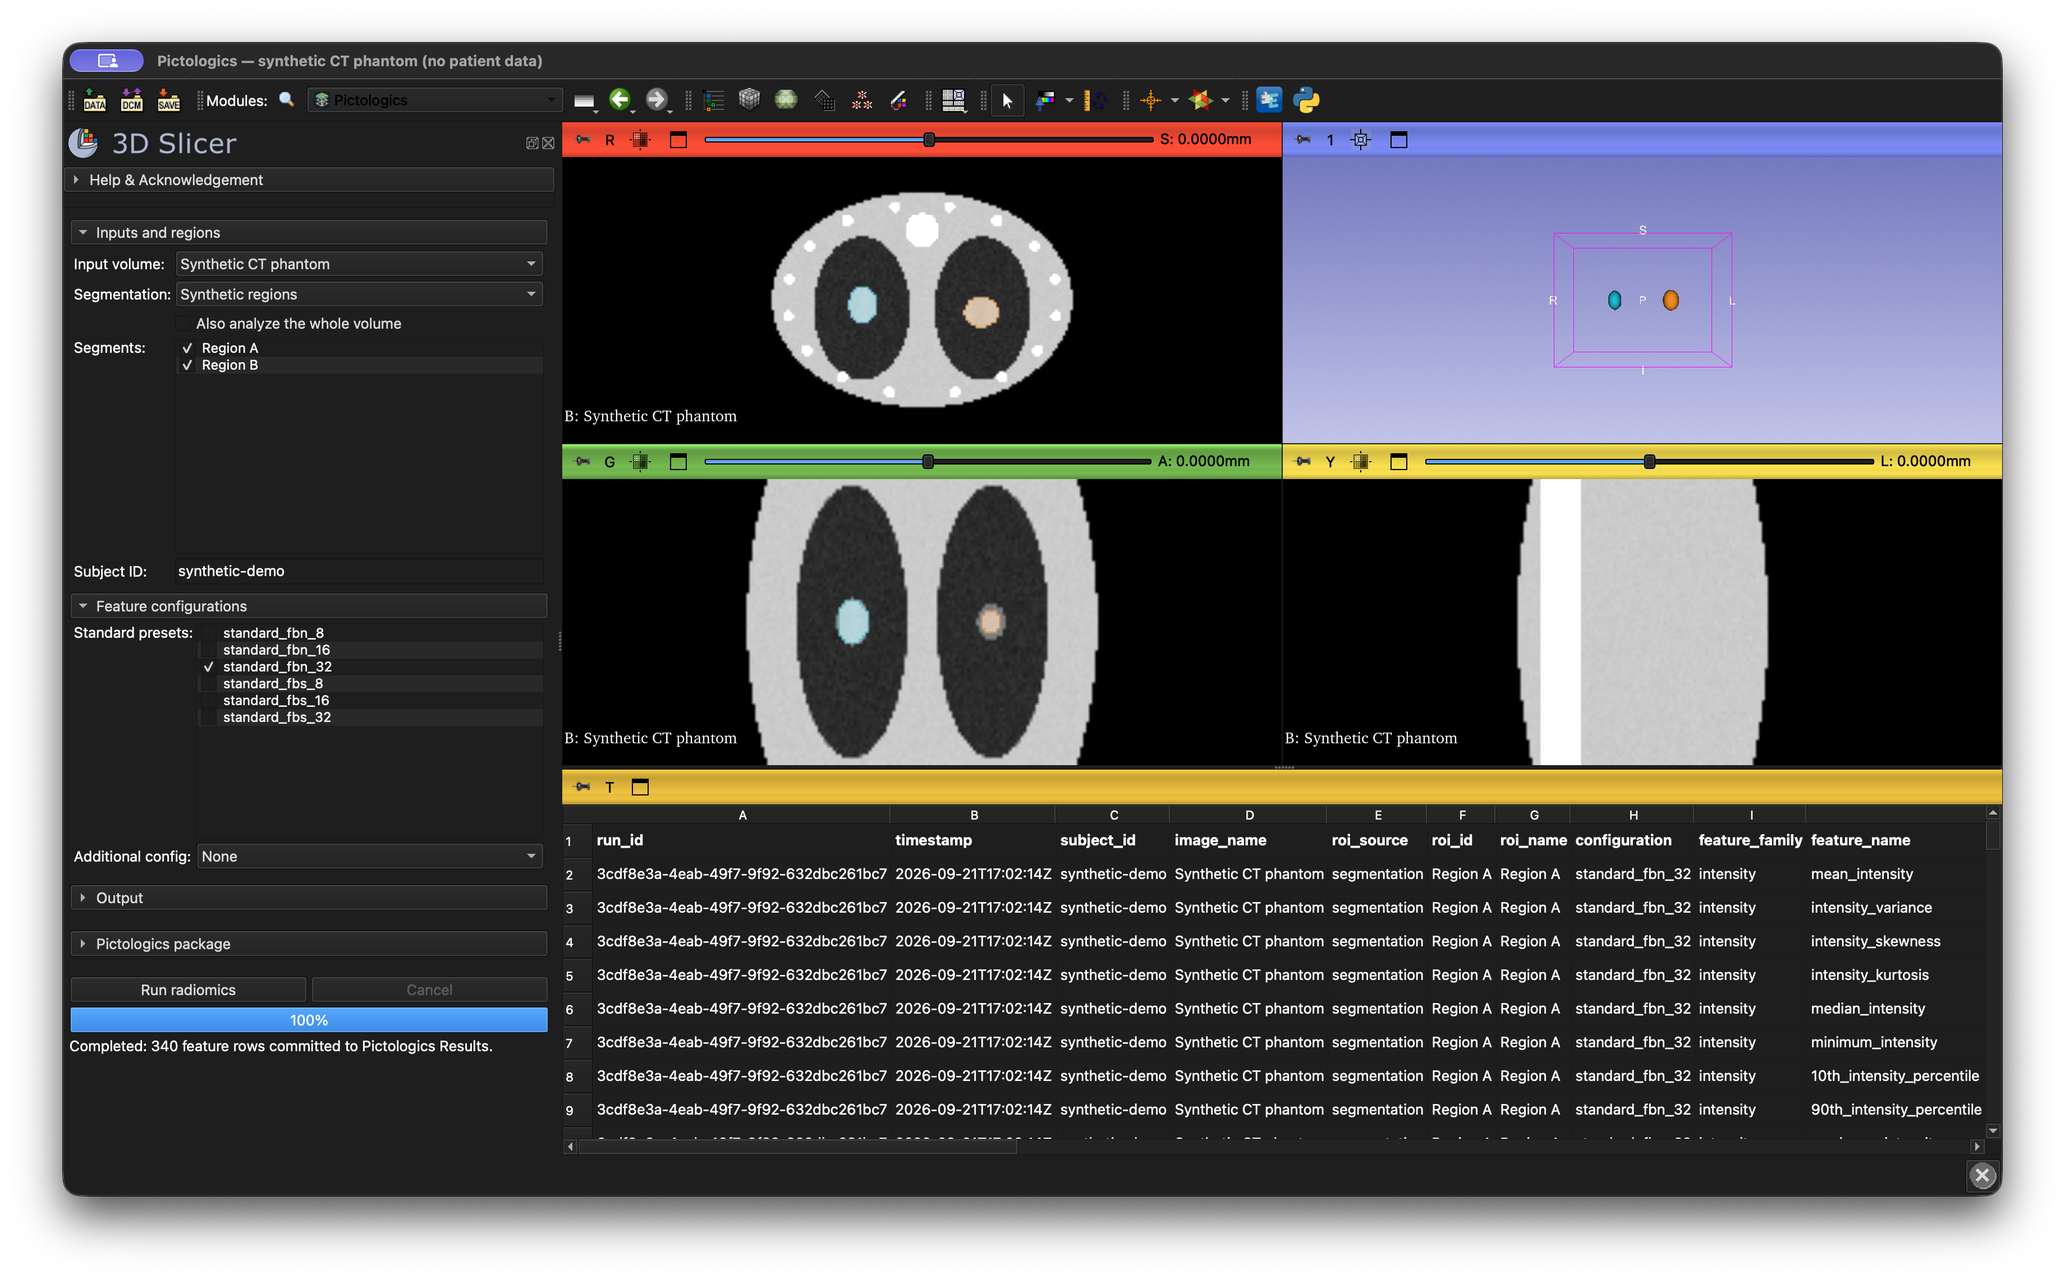
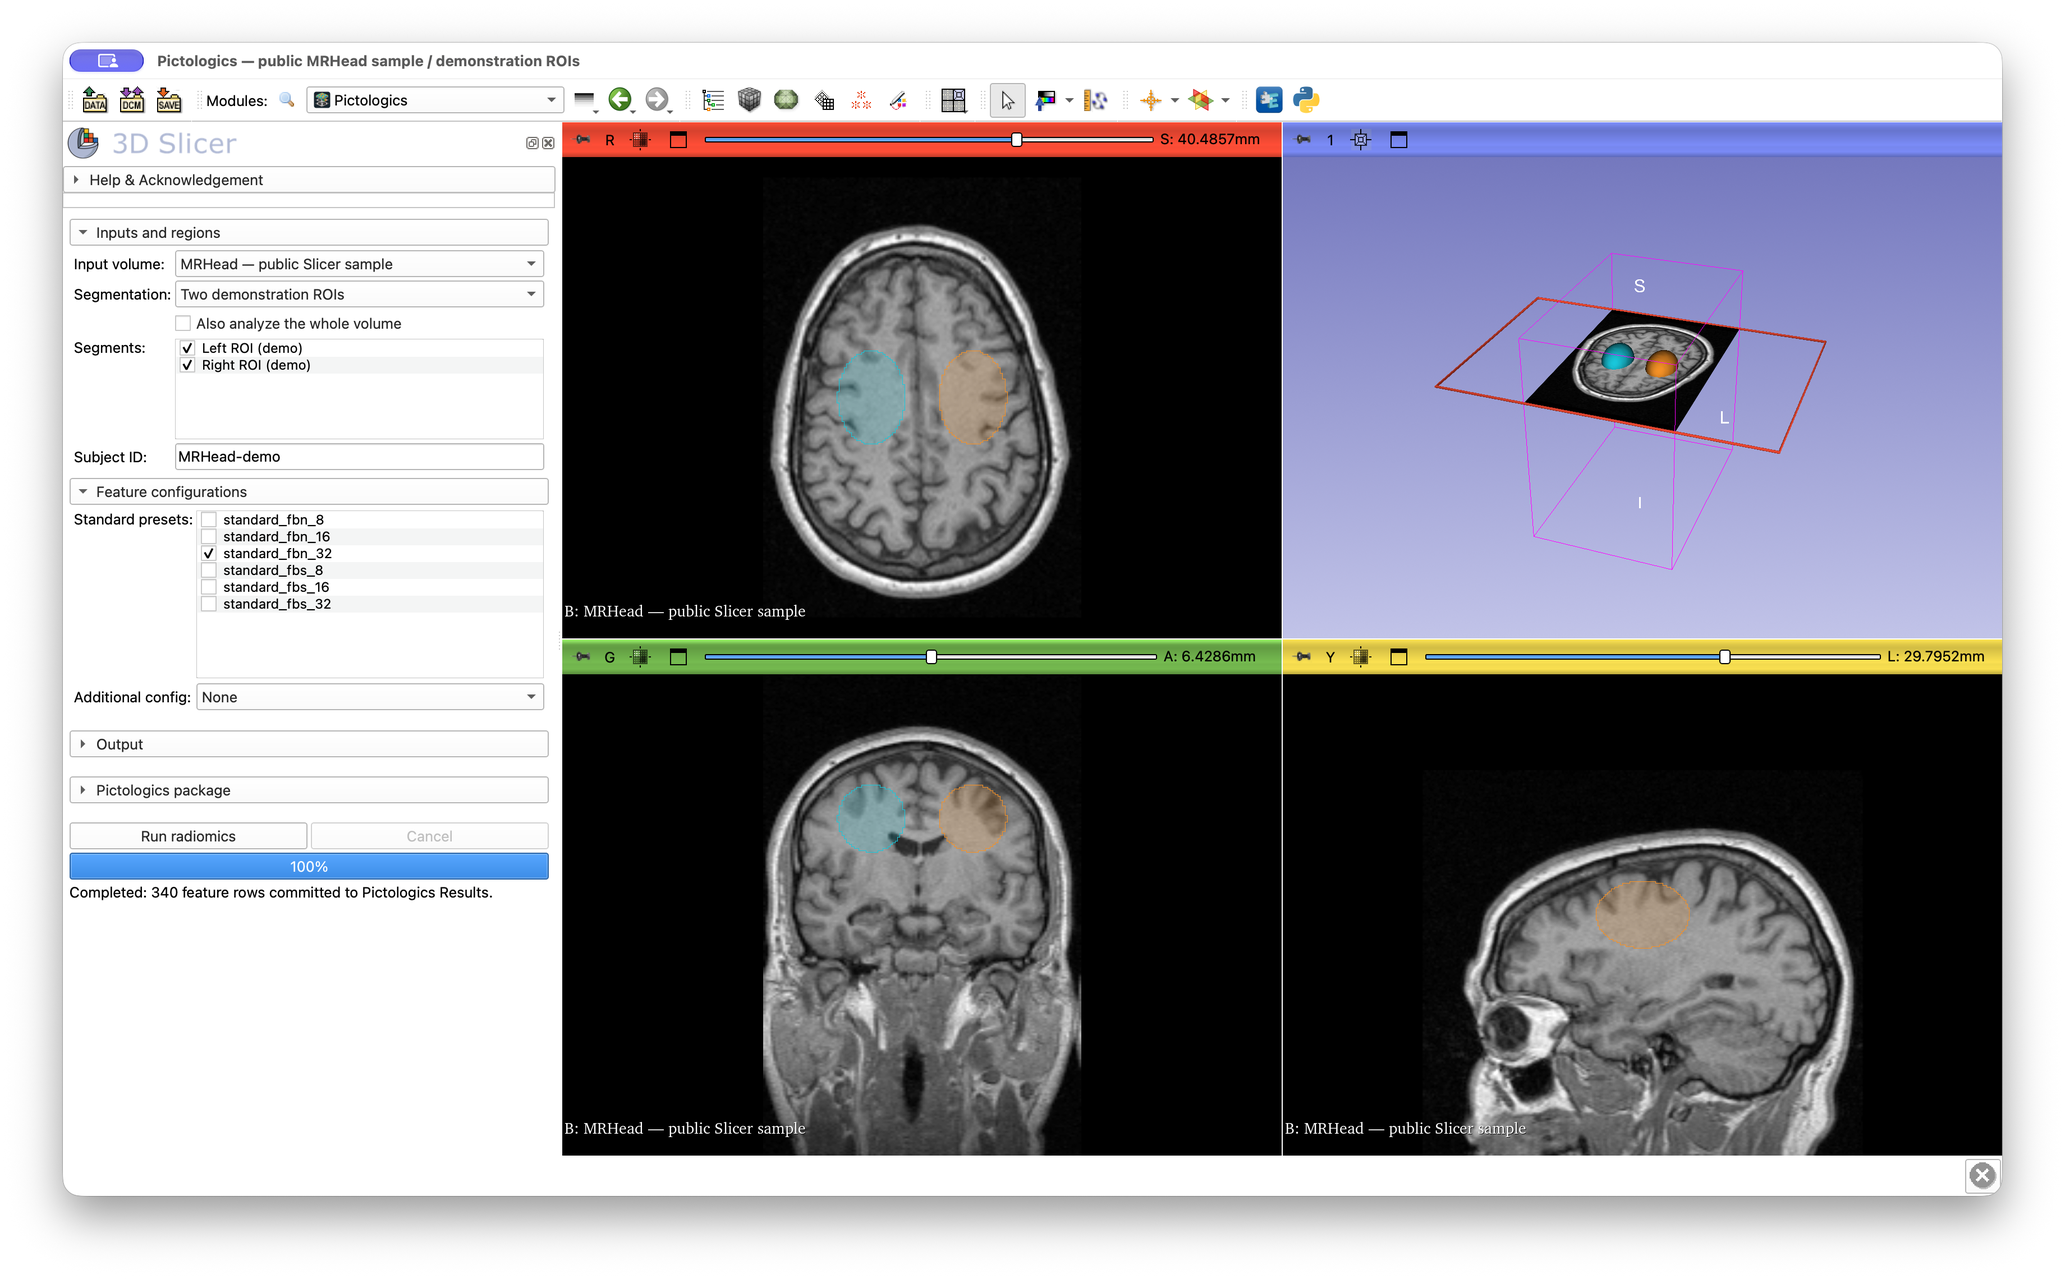
DOC: Publish approved MRHead workflow screenshot and demo

diff --git a/scripts/create_sample_data_demo.py b/scripts/create_sample_data_demo.py
@@ -1,0 +1,166 @@
+"""Prepare public Slicer MRHead data with two illustrative radiomics ROIs.
+
+Launch in a fresh, isolated Slicer process using --disable-settings and
+--ignore-slicerrc. The built-in SampleData downloader verifies the public data's
+checksum. It may download MRHead but never installs Pictologics or uploads data.
+The two ellipsoidal masks are demonstration ROIs, not clinical annotations.
+Run radiomics with the normal module button; no result values are fabricated.
+Set PICTOLOGICS_DEMO_AUTORUN=1 to invoke that same module workflow on startup.
+Keep screenshots in local-output until the maintainer approves publication.
+"""
+
+from __future__ import annotations
+
+import json
+import os
+from collections import Counter
+
+import numpy as np
+import qt
+import SampleData
+import slicer
+import vtk
+
+
+def create_demo() -> None:
+    if slicer.util.getNodesByClass("vtkMRMLVolumeNode"):
+        raise RuntimeError("Use a fresh Slicer session; existing image data will not be replaced.")
+    slicer.util.selectModule("PictologicsSlicer")
+    widget = slicer.modules.pictologicsslicer.widgetRepresentation().self()
+    inspection = widget.logic.inspectDependencies()
+    if not inspection.satisfied:
+        raise RuntimeError("Install the adopted Pictologics release before running this demo.")
+
+    volume = SampleData.downloadSample("MRHead")
+    volume.SetName("MRHead — public Slicer sample")
+    array = slicer.util.arrayFromVolume(volume)
+    bounds = [0.0] * 6
+    volume.GetRASBounds(bounds)
+    matrix = vtk.vtkMatrix4x4()
+    volume.GetIJKToRASMatrix(matrix)
+    k, j, i = (axis.astype(np.float32) for axis in np.ogrid[tuple(slice(n) for n in array.shape)])
+    x, y, z = [
+        matrix.GetElement(axis, 0) * i
+        + matrix.GetElement(axis, 1) * j
+        + matrix.GetElement(axis, 2) * k
+        + matrix.GetElement(axis, 3)
+        for axis in range(3)
+    ]
+    centre = (
+        (bounds[0] + bounds[1]) / 2,
+        (bounds[2] + bounds[3]) / 2,
+        bounds[4] + 0.70 * (bounds[5] - bounds[4]),
+    )
+    segmentation = slicer.mrmlScene.AddNewNodeByClass(
+        "vtkMRMLSegmentationNode", "Two demonstration ROIs"
+    )
+    segmentation.CreateDefaultDisplayNodes()
+    segmentation.SetReferenceImageGeometryParameterFromVolumeNode(volume)
+    regions = [
+        ("Left ROI (demo)", (0.96, 0.57, 0.15), centre[0] - 27),
+        ("Right ROI (demo)", (0.10, 0.78, 0.86), centre[0] + 27),
+    ]
+    voxel_counts = {}
+    for name, color, centre_x in regions:
+        mask = ((x - centre_x) / 18) ** 2 + ((y - centre[1]) / 25) ** 2 + (
+            (z - centre[2]) / 18
+        ) ** 2 < 1
+        voxel_counts[name] = int(mask.sum())
+        if voxel_counts[name] < 100:
+            raise RuntimeError(f"Demonstration ROI is outside the sample image: {name}")
+        segment_id = segmentation.GetSegmentation().AddEmptySegment(name, name, color)
+        slicer.util.updateSegmentBinaryLabelmapFromArray(
+            mask.astype(np.uint8), segmentation, segment_id, volume
+        )
+    segmentation.CreateClosedSurfaceRepresentation()
+    segmentation.GetDisplayNode().SetOpacity2DFill(0.18)
+    segmentation.GetDisplayNode().SetOpacity2DOutline(1.0)
+
+    widget.ui.inputVolumeSelector.setCurrentNode(volume)
+    widget.ui.segmentationSelector.setCurrentNode(segmentation)
+    widget.ui.wholeVolumeCheckBox.setChecked(False)
+    widget.ui.subjectIdLineEdit.setText("MRHead-demo")
+    widget.updateParameterNodeFromGUI()
+    widget.ui.configurationCollapsibleButton.collapsed = False
+    widget.ui.outputCollapsibleButton.collapsed = True
+    # Compact the demo's two short lists; this is only presentation, not saved settings.
+    widget.ui.segmentListWidget.setMaximumHeight(80)
+    widget.ui.standardConfigListWidget.setMaximumHeight(150)
+
+    layout = slicer.app.layoutManager()
+    layout.setLayout(slicer.vtkMRMLLayoutNode.SlicerLayoutFourUpView)
+    slicer.util.setSliceViewerLayers(background=volume)
+    slicer.util.resetSliceViews()
+    layout.sliceWidget("Red").sliceLogic().SetSliceOffset(centre[2])
+    layout.sliceWidget("Green").sliceLogic().SetSliceOffset(centre[1])
+    layout.sliceWidget("Yellow").mrmlSliceNode().JumpSliceByCentering(
+        centre[0] - 27, centre[1], centre[2]
+    )
+    layout.sliceWidget("Red").mrmlSliceNode().SetSliceVisible(True)
+    slicer.util.resetThreeDViews()
+    camera = (
+        layout.threeDWidget(0)
+        .threeDView()
+        .renderWindow()
+        .GetRenderers()
+        .GetFirstRenderer()
+        .GetActiveCamera()
+    )
+    camera.Azimuth(20)
+    camera.Elevation(30)
+    layout.threeDWidget(0).threeDView().scheduleRender()
+    slicer.util.setDataProbeVisible(False)
+    slicer.util.mainWindow().resize(1560, 1050)
+    slicer.util.mainWindow().setWindowTitle(
+        "Pictologics — public MRHead sample / demonstration ROIs"
+    )
+    print(
+        "SAMPLE_DEMO_READY "
+        + json.dumps(
+            {
+                "sample": "MRHead",
+                "shape": array.shape,
+                "bounds_ras": bounds,
+                "centre_ras": centre,
+                "roi_voxels": voxel_counts,
+            }
+        ),
+        flush=True,
+    )
+
+    # Observe the real GUI workflow; never create or alter calculated values.
+    completion_timer = qt.QTimer(slicer.util.mainWindow())
+    completion_timer.setInterval(500)
+
+    def review_completed_run() -> None:
+        if widget._lastPayload is None:
+            return
+        completion_timer.stop()
+        table = widget.ui.outputTableSelector.currentNode()
+        rows = widget.logic.rowsFromTable(table)
+        counts = Counter(row["roi_name"] for row in rows)
+        if set(counts) != {name for name, _, _ in regions}:
+            raise RuntimeError(
+                f"Both demonstration regions must have actual results: {dict(counts)}"
+            )
+        print(
+            "SAMPLE_DEMO_RESULTS "
+            + json.dumps(
+                {
+                    "rows": len(rows),
+                    "rows_per_roi": dict(counts),
+                    "statuses": dict(Counter(row["status"] for row in rows)),
+                }
+            ),
+            flush=True,
+        )
+        layout.setLayout(slicer.vtkMRMLLayoutNode.SlicerLayoutFourUpView)
+
+    completion_timer.connect("timeout()", review_completed_run)
+    completion_timer.start()
+    if os.environ.get("PICTOLOGICS_DEMO_AUTORUN") == "1":
+        qt.QTimer.singleShot(0, widget.onRun)
+
+
+if __name__ == "__main__":
+    qt.QTimer.singleShot(0, create_demo)

diff --git a/docs/screenshots/README.md b/docs/screenshots/README.md
@@ -1,24 +1,50 @@
 # Catalog screenshots
 
-Captured on 2026-09-21 in 3D Slicer 5.12.4 on macOS (Intel/Rosetta), using the
-published Pictologics 0.5.1 wheel in the extension's existing private environment.
-Both PNGs are genuine application-window captures, not rendered mockups.
+Captured in 3D Slicer 5.12.4 on macOS (Intel/Rosetta), using the published
+Pictologics 0.5.1 wheel in the extension's existing private environment.
+Both PNGs are genuine, unretouched application-window captures, not mockups.
 
-- `pictologics-workflow.png`: the synthetic volume, two selected regions, and
-  feature-configuration controls after successful extraction.
-- `pictologics-results.png`: the same run's actual result table and export controls.
+- `pictologics-workflow.png`: captured and visually approved by the maintainer on
+  2026-09-22. Real public **MRHead MRI** with two selected demonstration ROIs,
+  configuration controls, and completed extraction. Resolution: 3680 × 2280.
+- `pictologics-results.png`: captured on 2026-09-21 from a **separate synthetic
+  phantom run**, showing the actual result table and export controls. This image
+  is unchanged; approval of the new workflow image does not approve other revisions.
+
+## MRHead source and masks
+
+The workflow uses Slicer's built-in **MRHead** sample, retrieved with
+`SampleData.downloadSample("MRHead")`. The
+[SampleData acknowledgements](https://github.com/Slicer/Slicer/blob/v5.12.4/Modules/Scripted/SampleData/SampleData.py)
+state that MRHead was donated by the person visible in the images for unrestricted
+use. Original sample: `MR-head.nrrd`; SHA-256:
[1 lines of base64/hex data omitted]
+
+**Left ROI (demo)** and **Right ROI (demo)** are generated ellipsoidal masks over
+the real MRI, not clinical segmentations, tumor annotations, or diagnostic findings.
+Original MRI voxel intensities are unchanged. Each mask contains 26,122 input
+voxels. Actual extraction produced **170 features per ROI, 340 rows total, all
+statuses `ok`**, with `standard_fbn_32`. The image contains no fabricated results.
+The sample volume itself is not included in this repository.
+
+Approved workflow PNG SHA-256:
[1 lines of base64/hex data omitted]
+
+## Synthetic results-table example
 
 The CT-like phantom is generated mathematically by
 [`create_catalog_demo.py`](../../scripts/create_catalog_demo.py), with random seed
 `20260921`. It is illustrative, not realistic anatomy or clinical validation data.
 It contains no patient information and requires no downloaded sample data.
-The images are distributed under this repository's Apache-2.0 license.
+The synthetic phantom script and its screenshot are distributed under this
+repository's Apache-2.0 license; the real MRHead sample's reuse terms are described above.
 
-## Reproduce
+## Reproduce the MRHead workflow
 
 Use a fresh Slicer session. Install the adopted package once through the normal
-module interface before running this demonstration. The script does not install
-dependencies and refuses to replace a scene containing volumes.
+module interface before running this demonstration. The script may download the
+public sample through Slicer's checksum-verified SampleData loader. It does not
+install dependencies or upload data, and refuses to replace a scene containing volumes.
 
 From the repository root on macOS:
 
@@ -26,21 +52,28 @@ From the repository root on macOS:
 /Applications/Slicer.app/Contents/MacOS/Slicer \
   --no-splash --disable-settings --ignore-slicerrc \
   --additional-module-paths "$PWD/PictologicsSlicer" "$PWD/PictologicsCLI" \
-  --python-script "$PWD/scripts/create_catalog_demo.py"
+  --python-script "$PWD/scripts/create_sample_data_demo.py"
 ```
 
 On Linux or Windows, substitute the Slicer executable and absolute module/script
 paths. The isolated launch avoids changing saved application preferences.
 
-1. Maximize the Slicer window and select **Run radiomics**. Leave both synthetic
-   regions and `standard_fbn_32` selected.
+1. Maximize the Slicer window and select **Run radiomics**. Leave both demonstration
+   ROIs and `standard_fbn_32` selected. Alternatively, set
+   `PICTOLOGICS_DEMO_AUTORUN=1` before launch to invoke the same module workflow.
 2. Wait for **340 feature rows** and 100% completion. This is a real background
    extraction; the script does not create synthetic result values.
-3. Capture the workflow and results views, with the synthetic-data title visible.
-   Collapse configuration controls or scroll the table to reveal feature columns
-   as needed. Do not edit table values or add fabricated overlays.
+3. After verifying that both ROIs have computed results, the script restores the
+   Four-Up anatomy view. Keep the public-sample/demonstration-ROI title visible.
+   Only the demo's list heights and view presentation are adjusted for readability;
+   saved application preferences and calculated results are not changed.
 4. Capture only the application window; exclude other applications and desktop
    content. Inspect each PNG for readability and unintended personal information.
+
+To reproduce the separate synthetic results-table screenshot, use
+`scripts/create_catalog_demo.py` instead. Keep all new captures in the Git-ignored
+`local-output/catalog-review/` folder and obtain maintainer visual approval before
+copying them into published documentation. Agent inspection is not maintainer approval.
 
 Screenshots are documentation/catalog assets only. They are not included in the
 installed Python module resources. `EXTENSION_SCREENSHOTURLS` in the root CMake

diff --git a/docs/release-readiness.md b/docs/release-readiness.md
@@ -23,10 +23,12 @@ Review date: 2026-09-22. Extension/result contract remains **0.1.0**.
   16/32/128/256 pixels, real asynchronous extraction, and actual table-view binding.
 - The published identity/icon changes (`dc63b86`) passed all five GitHub CI jobs:
   [qualification run](https://github.com/martonkolossvary/SlicerPictologics/actions/runs/35590611518).
-- Two high-resolution [catalog screenshots](screenshots/README.md) show an actual
-  340-row extraction on a deterministic, non-patient CT-like phantom. The catalog
-  URLs and repository homepage reference them. A safe reproduction script is
-  included; screenshots and branding masters are not runtime module resources.
+- Two high-resolution [catalog screenshots](screenshots/README.md) show genuine
+  extraction workflows. The maintainer-approved workflow image uses Slicer's public
+  MRHead MRI with two illustrative ROIs (170 features each; all 340 rows successful).
+  The unchanged results-table image is from a separate synthetic CT-like phantom
+  run. Captions distinguish the examples, and both reproduction scripts are
+  included. Screenshots and branding masters are not runtime module resources.
 - Screenshot acceptance exposed a first-run results-display bug: table selection
   was propagated before the table view existed. The view is now created first.
   The new Slicer regression test fails on the original implementation and passes
@@ -50,9 +52,10 @@ Review date: 2026-09-22. Extension/result contract remains **0.1.0**.
   passed all five jobs: quality/coverage, released wheels on three desktop
   platforms, and real Slicer on Linux, including the new table-view regression.
 - Maintainer visual approval is required before publishing any further tutorial
-  or catalog images. The existing two captures were published before that rule
-  was requested and are now awaiting maintainer review. No subsequent image
-  additions or revisions have been pushed.
+  or catalog images. The MRHead workflow replacement received explicit visual
+  approval on 2026-09-22. Its exact approved bytes replace the original workflow
+  PNG. The earlier results screenshot is unchanged; no unreviewed replacement is
+  included in this update.
 
 Packaged installation/update testing and the ExtensionsIndex pull request remain
 outstanding. This machine has the downloaded Slicer application, but neither a
@@ -107,9 +110,10 @@ new adopted wheel. Startup never silently upgrades dependencies.
 ## Reassessment: next priorities
 
 1. **Finish catalog distribution.** Catalog identity, metadata, icon integration,
-   and synthetic-data screenshots are implemented. The published code passed
-   GitHub CI and the full ExtensionsIndex validator. Obtain maintainer screenshot
-   approval, then submit for Preview and the supported Stable branch. Verify
+   and example screenshots are implemented, with the MRHead workflow visually
+   approved. The implementation passed GitHub CI and the full ExtensionsIndex
+   validator. Recheck the published assets, then submit for Preview and the
+   supported Stable branch. Verify
    Extension Factory packaging and installation/update through
    Extensions Manager. This is the missing link between automatic adoption and
    delivery to ordinary users.

diff --git a/docs/extensions-index-submission.md b/docs/extensions-index-submission.md
@@ -9,7 +9,8 @@ checklist, not a claim of catalog acceptance or packaged-install verification.
 - Matching CMake project/catalog identity, description, contributor, and Apache-2.0 license.
 - GitHub `3d-slicer-extension` topic and public repository homepage.
 - Public 128-pixel catalog icon and explicit 256-pixel runtime icon.
-- Two genuine, patient-free screenshots and a reproducible demo script.
+- Genuine screenshots using public MRHead sample data and a separate synthetic
+  phantom, with source attribution and reproducible demo scripts.
 - GUI and CLI discovery, real extraction, result-table display, and regression tests.
 - Latest compatibility-qualified package adoption from PyPI; runtime pin remains 0.5.1.
 
@@ -27,9 +28,10 @@ recheck the target branch and checklist at submission time.
 ## Remaining distribution gates
 
 Before any further tutorial or catalog image is pushed, obtain the maintainer's
-visual approval. The two existing screenshots were pushed before this requirement
-was introduced on 2026-09-22 and are awaiting maintainer review. Keep revisions
-local until approved; do not treat automated or agent visual checks as approval.
+visual approval. The MRHead workflow replacement was explicitly approved on
+2026-09-22. The prior synthetic results screenshot is unchanged; no unreviewed
+replacement is included. Keep subsequent revisions local until approved; do not
+treat automated or agent visual checks as approval.
 
 1. Re-run the upstream
    [description validator](https://github.com/Slicer/ExtensionsIndex/blob/main/scripts/check_description_files.py)

diff --git a/README.md b/README.md
@@ -35,13 +35,17 @@ clinical diagnosis or treatment decisions.
 
 ## Screenshots
 
-![Pictologics workflow with a synthetic CT-like phantom and two selected regions](docs/screenshots/pictologics-workflow.png)
+![Pictologics workflow with Slicer's real MRHead MRI sample and two demonstration ROIs](docs/screenshots/pictologics-workflow.png)
+
+Workflow: Slicer's public **MRHead MRI** with two illustrative, non-clinical masks.
+Both segments were analyzed: **170 features per segment, 340 total**.
 
 ![Pictologics results from real extraction on the synthetic regions](docs/screenshots/pictologics-results.png)
 
-These are genuine Slicer captures of a deterministic **synthetic phantom, not
-patient images**. Pictologics 0.5.1 computes 340 feature rows across two regions
-using `standard_fbn_32`. See [capture provenance and reproduction](docs/screenshots/README.md).
+Results-table example: a separate run on the earlier **synthetic CT-like phantom**,
+not the MRHead run above. Both examples are genuine Slicer captures using
+Pictologics 0.5.1 and `standard_fbn_32`.
+See [sample attribution, capture provenance, and reproduction](docs/screenshots/README.md).
 The **Pictologics** GUI module handles inputs, configurations, tables, and exports;
 its hidden **PictologicsCLI** worker performs extraction in an isolated process.
 
